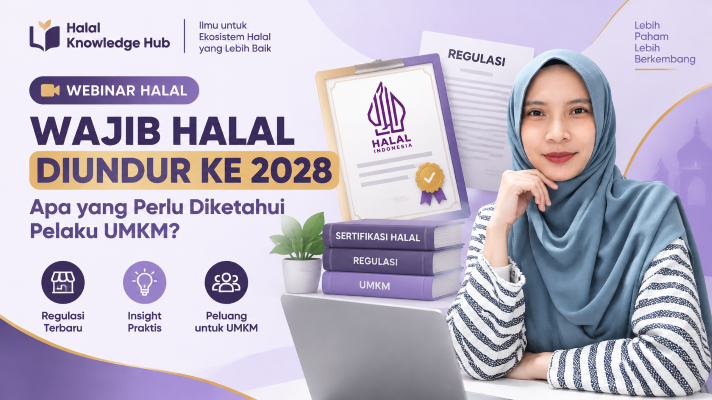
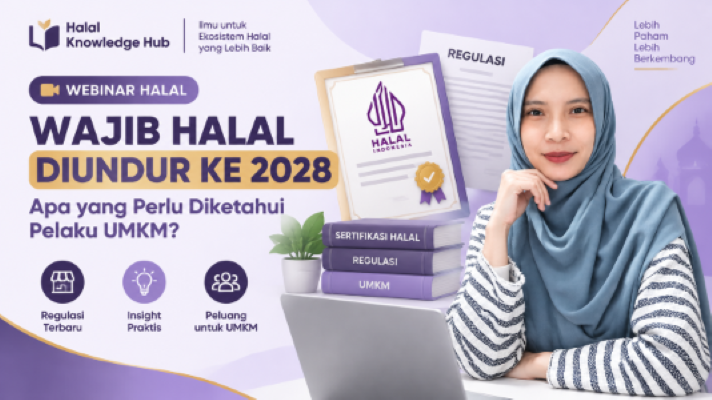
my new update in assets and umkm.html and umkm.css

diff --git a/umkm.html b/umkm.html
@@ -49,95 +49,99 @@
    </div> <!-- Akhir dari Header Content-->
    </header>
 
-    <section class="main-background">
+    <div class="articles-container">
 
-    <div class="content-layout">
+    <div class="articles-header">
 
-        <!-- KOLOM ARTIKEL UTAMA -->
-        <main class="main-article">
+        <span class="article-badge">
+            SAHABAT HALAL
+        </span>
 
-            <div class="article-header">
-                <span class="article-badge">
-                    BERITA UTAMA
-                </span>
+        <h1>
+            Artikel & Dokumentasi Pendampingan Halal UMKM
+        </h1>
 
-                <h1>
-                    Sertifikasi Halal sebagai Langkah Strategis Meningkatkan
-                    Daya Saing UMKM Kabupaten Banjarnegara
-                </h1>
+        <p>
+            Kumpulan artikel edukasi, studi kasus pendampingan,
+            sertifikasi halal, legalitas usaha, dan pengembangan UMKM.
+        </p>
 
-                <div class="article-meta">
-                    Dipublikasikan oleh Siti Maesaroh
-                </div>
-            </div>
+    </div>
 
-            <img src="assets/hero-halal.jpg"
-                 alt="Sertifikasi Halal"
-                 class="featured-image">
+    <div class="article-grid">
 
-            <div class="article-content">
+        <!-- ARTIKEL 1 -->
+
+        <a href="https://esma-2026.github.io/My-Personal-Blog/blog.html?article=1-web-development"
+           class="article-card">
+
+            <img
+                src="assets/UMKM-KartuArtikel.png"
+                alt="Menembus Batas Lokal">
+
+            <div class="article-card-content">
+
+                <h3>
+                    Catatan dari Pelatihan: Peningkatan Daya Saing UMKM menuju Pasar Global
+                </h3>
 
                 <p>
-                    
+                   Kegiatan pendampingan dan penguatan kapasitas UMKM menjadi langkah penting dalam meningkatkan daya saing produk lokal di pasar yang semakin kompetitif. Melalui berbagai sesi edukasi, peserta memperoleh pemahaman mengenai strategi pemasaran global, pemanfaatan marketplace internasional, penentuan harga ekspor, sistem pembayaran lintas negara, hingga pengelolaan risiko nilai tukar. Materi yang disampaikan tidak hanya berfokus pada teori, tetapi juga praktik dan studi kasus yang relevan dengan kebutuhan pelaku usaha. Selain menambah wawasan, kegiatan ini mendorong UMKM untuk lebih siap menghadapi peluang pasar internasional, memperluas jaringan bisnis, serta memanfaatkan teknologi digital sebagai sarana pengembangan usaha yang berkelanjutan dan berdaya saing global.
+                </p>
+            </div>
+        </a>
+
+        <!-- ARTIKEL 2 -->
+
+        <a href="https://esma-2026.github.io/My-Personal-Blog/blog.html?article=8-umkm-empowerment"
+           class="article-card">
+
+            <img
+                src="assets/HJ-KartuArtikel.png"
+                alt="Wajib Halal Diundur">
+
+            <div class="article-card-content">
+
+                <h3>
+                    Wajib Halal Diundur ke 2028?
+                </h3>
+
+                <p>
+                   Penyesuaian tahapan sertifikasi halal hingga 2028 bukan berarti kewajiban halal dihapus. Melalui webinar HalalTalk Series, H. M. Fuad Nasar menjelaskan pentingnya memahami literasi halal, konsep halal dan thayyib, serta peran sertifikasi halal dalam perlindungan konsumen dan penguatan daya saing industri halal Indonesia.
                 </p>
 
             </div>
 
-        </main>
+        </a>
 
-        <!-- SIDEBAR -->
-        <aside class="sidebar">
+        <!-- ARTIKEL 3 -->
 
-            <h3 class="sidebar-title">
-                📚 Proses Sertifikasi Halal
-            </h3>
+        <a href="https://esma-2026.github.io/My-Personal-Blog/umkm.html"
+           class="article-card">
 
-            <a href="https://esma-2026.github.io/My-Personal-Blog/blog.html?article=1-web-development" class="mini-card">
-                <img src="assets/UMKM-KartuArtikel.png" alt="Menembus Batas Lokal">
-                <div>
-                    <h4>Menembus Batas Lokal</h4>
-                    <p>Catatan dari Pelatihan: Peningkatan Daya saing UMKM</p>
-                </div>
-            </a>
+            <img
+                src="assets/ayamGeprekOishi/kartuArtikel.jpg"
+                alt="Ayam Geprek Oishi">
 
-            <a href="#" class="mini-card">
-                <img src="assets/thumb2.jpg" alt="">
-                <div>
-                    <h4>Pelatihan Self Declare Banjarnegara</h4>
-                    <p>Panduan pengajuan sertifikasi halal gratis.</p>
-                </div>
-            </a>
+            <div class="article-card-content">
 
-            <a href="#" class="mini-card">
-                <img src="assets/thumb3.jpg" alt="">
-                <div>
-                    <h4>Monitoring Produk Halal UMKM</h4>
-                    <p>Evaluasi penerapan Sistem Jaminan Produk Halal.</p>
-                </div>
-            </a>
+                <h3>
+                    Studi Kasus Pendampingan Halal UMKM Ayam Geprek Oishi
+                </h3>
 
-            <a href="#" class="mini-card">
-                <img src="assets/thumb4.jpg" alt="">
-                <div>
-                    <h4>Kunjungan ke Pelaku Usaha Kuliner</h4>
-                    <p>Pendampingan lapangan bersama pelaku usaha.</p>
-                </div>
-            </a>
+                <p>
+                    Sertifikasi halal merupakan salah satu bentuk komitmen pelaku usaha dalam menghadirkan produk yang aman, terpercaya, dan memberikan ketenangan bagi konsumen. Bagi UMKM, proses sertifikasi halal tidak hanya berkaitan dengan administrasi, tetapi juga mencakup identifikasi produk, verifikasi lokasi usaha, pemeriksaan bahan baku, hingga penyusunan dokumen pendukung.
+                    Salah satu pelaku usaha yang mengikuti proses pendampingan sertifikasi halal adalah Ayam Geprek Oishi, sebuah usaha kuliner milik Asep Risdiyanto yang berlokasi di Pasar Wanadadi, samping pangkalan ojek terminal, Kabupaten Banjarnegara.
 
-            <a href="#" class="mini-card">
-                <img src="assets/thumb5.jpg" alt="">
-                <div>
-                    <h4>Sertifikasi Halal Produk Lokal</h4>
-                    <p>Mendorong UMKM naik kelas dan siap pasar nasional.</p>
-                </div>
-            </a>
+                </p>
 
-        </aside>
+            </div>
+
+        </a>
 
     </div>
 
-</section>
-
+</div>
 
     <footer class="sponsor-footer">
 

diff --git a/umkm.css b/umkm.css
@@ -1,121 +1,85 @@
-.main-background {
-    width: 100%;
-    padding-top: calc(170px + 2rem);
+.articles-container{
+    width:min(1700px, calc(100vw - 160px));
+
+    margin:200px auto 60px;
+}
+.articles-header{
+    text-align:center;
+    margin-bottom:50px;
+}
+.articles-header h1{
+    color:#0f4d47;
+    font-size:clamp(2rem,4vw,3.5rem);
+    font-weight: 400px;
+    margin-bottom:15px;
+}
+.articles-header p{
+    width:auto;
+    margin:auto;
+    font-size: 2rem;
+    font-weight: 400px;
+    line-height:1.8;
+    color:#555;
+}
+.article-grid{
+    display:grid;
+
+    grid-template-columns:
+        repeat(3,minmax(320px,1fr));
+
+    gap:20px;
+
+    max-width:100%;
+
+    margin:0 auto;
 }
 
-.content-layout {
-    width: 100%;
-    padding-bottom: 20px;
-    display: grid;
-    grid-template-columns: 2.5fr 1fr;
-    gap: 40px;
+.article-card{
+    text-decoration:none;
+    background:white;
+    border-radius:10px;
+    overflow:hidden;
+    box-shadow:
+        0 12px 35px rgba(0,0,0,.08);
+
+    transition:.3s ease;
 }
+.article-card:hover{
+    transform:translateY(-8px);
 
-.main-article {
-    background: rgba(255,255,255,.85);
-    border-radius: 24px;
-    padding: 40px;
-    box-shadow: 0 4px 20px rgba(0,0,0,.08);
+    box-shadow:
+        0 18px 40px rgba(185,150,221,.25);
 }
-
-.article-header h1 {
-    font-size: 2.8rem;
-    color: #0A3D2E;
-    margin-bottom: 20px;
-    line-height: 1.3;
+.article-card img{
+    width:100%;
+    aspect-ratio:3/2;
+    object-fit:auto;
+    display:block;
 }
-
-.article-badge {
-    display: inline-block;
-
-    padding: 8px 15px;
-
-    background: #d4af37;
-    color: white;
-
-    border-radius: 999px;
-    font-size: .9rem;
-    font-weight: bold;
+.article-card-content{
+    padding:20px;
 }
-
-.featured-image {
-    width: 100%;
-    border-radius: 18px;
-    margin: 25px 0;
+.article-card-content h3{
+    color:#0f4d47;
+    font-size:1.2rem;
+    margin-bottom:12px;
 }
-
-.article-content {
-    font-size: 1.1rem;
-    line-height: 2;
+.article-card-content p{
+    color:#666;
+    line-height:1.7;
 }
+@media(max-width:992px){
 
-.sidebar {
-    position: sticky;
-    top: 10px;
-    padding-top: 10px;
-    padding-right: 10px;
-    height: fit-content;
-}
-
-.sidebar-title {
-    margin-bottom: 20px;
-    color: #0A3D2E;
-}
-
-.mini-card {
-    display: flex;
-    gap: 15px;
-
-    text-decoration: none;
-    color: inherit;
-
-    background: rgba(255,255,255,.88);
-    padding: 12px;
-
-    margin-bottom: 15px;
-
-    border-radius: 16px;
-    border: 1px solid rgba(0,0,0,.08);
-
-    transition: .3s;
-}
-
-.mini-card:hover {
-    transform: translateY(-4px);
-    box-shadow: 0 8px 20px rgba(0,0,0,.12);
-}
-
-.mini-card img {
-    width: 150px;
-    height: auto;
-
-    object-fit: cover;
-    border-radius: 10px;
-}
-
-.mini-card h4 {
-    margin-bottom: 8px;
-    font-size: 1.5rem;
-    color: #0A3D2E;
-}
-
-.mini-card p {
-    font-size: 1rem;
-    color: #666;
-    margin: 0;
-}
-@media (max-width: 992px) {
-
-    .content-layout {
-        grid-template-columns: 1fr;
+    .article-grid{
+        grid-template-columns:
+            repeat(2,1fr);
     }
 
-    .sidebar {
-        position: static;
-    }
+}
+@media(max-width:768px){
 
-    .article-header h1 {
-        font-size: 2rem;
+    .article-grid{
+        grid-template-columns:1fr;
     }
 
 }
